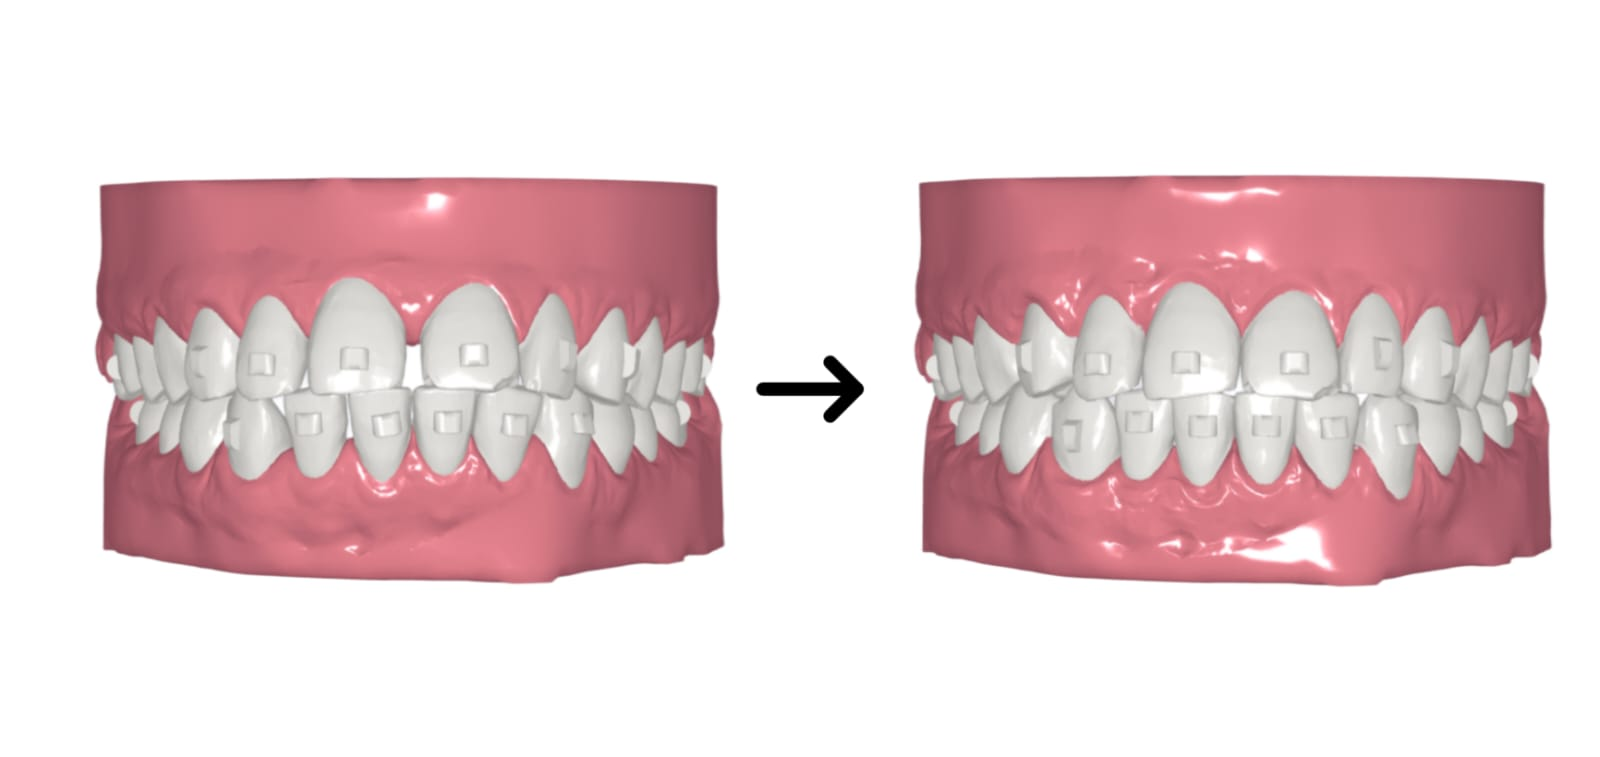
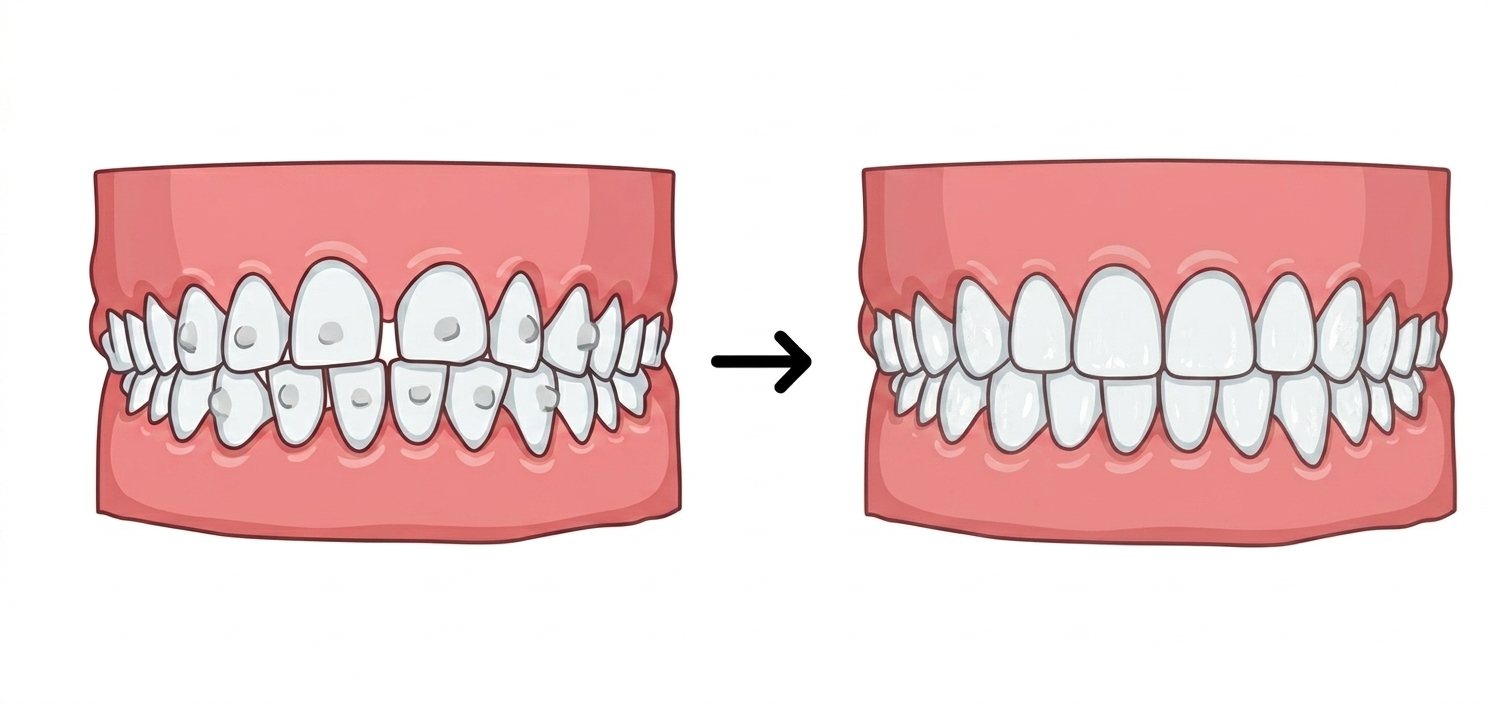
fix: move back button to top left and improve visibility on policy pages

diff --git a/app/refund-policy/page.tsx b/app/refund-policy/page.tsx
@@ -21,12 +21,12 @@ export const metadata: Metadata = {
 export default function RefundPolicyPage() {
   return (
     <div style={{ minHeight: "100vh", background: "#faf7f2", fontFamily: "Arial, sans-serif", display: "flex", flexDirection: "column" }}>
-      <div style={{ maxWidth: "820px", margin: "0 auto", padding: "40px 20px", width: "100%", flex: 1, position: "relative" }}>
+      <div style={{ maxWidth: "820px", margin: "0 auto", padding: "40px 20px", width: "100%", flex: 1 }}>
 
         {/* Back Button */}
         <BackButton />
 
-        <div style={{ maxWidth: "820px", padding: "0 0 80px" }}>
+        <div style={{ padding: "0 0 80px" }}>
 
         {/* Header */}
         <div style={{ textAlign: "center", borderBottom: "2px solid #1B2A4A", paddingBottom: "24px", marginBottom: "36px" }}>

diff --git a/app/privacy-policy/page.tsx b/app/privacy-policy/page.tsx
@@ -27,12 +27,12 @@ export default function PrivacyPolicyPage() {
 
   return (
     <div style={{ minHeight: "100vh", background: "#faf7f2", fontFamily: "Arial, sans-serif", display: "flex", flexDirection: "column" }}>
-      <div style={{ maxWidth: "820px", margin: "0 auto", padding: "40px 20px", width: "100%", flex: 1, position: "relative" }}>
+      <div style={{ maxWidth: "820px", margin: "0 auto", padding: "40px 20px", width: "100%", flex: 1 }}>
 
         {/* Back Button */}
         <BackButton />
 
-        <div style={{ maxWidth: "820px", padding: "0 0 80px" }}>
+        <div style={{ padding: "0 0 80px" }}>
 
         {/* Header */}
         <div style={{ textAlign: "center", borderBottom: "2px solid #1B2A4A", paddingBottom: "24px", marginBottom: "36px" }}>

diff --git a/app/terms/page.tsx b/app/terms/page.tsx
@@ -27,12 +27,12 @@ export default function TermsPage() {
 
   return (
     <div style={{ minHeight: "100vh", background: "#faf7f2", fontFamily: "Arial, sans-serif", display: "flex", flexDirection: "column" }}>
-      <div style={{ maxWidth: "820px", margin: "0 auto", padding: "40px 20px", width: "100%", flex: 1, position: "relative" }}>
+      <div style={{ maxWidth: "820px", margin: "0 auto", padding: "40px 20px", width: "100%", flex: 1 }}>
 
         {/* Back Button */}
         <BackButton />
 
-        <div style={{ maxWidth: "820px", padding: "0 0 80px" }}>
+        <div style={{ padding: "0 0 80px" }}>
 
         {/* Header */}
         <div style={{ textAlign: "center", borderBottom: "2px solid #1B2A4A", paddingBottom: "24px", marginBottom: "36px" }}>

diff --git a/components/BackButton.tsx b/components/BackButton.tsx
@@ -3,9 +3,7 @@ export default function BackButton() {
     <>
       <style>{`
         .back-btn {
-          position: absolute;
-          top: 20px;
-          right: 20px;
+          display: inline-block;
           padding: 8px 16px;
           border-radius: 8px;
           border: 1px solid #b8905a;
@@ -17,6 +15,7 @@ export default function BackButton() {
           cursor: pointer;
           letter-spacing: 0.3px;
           transition: all 0.2s ease;
+          margin-bottom: 20px;
         }
         .back-btn:hover {
           background: #b8905a;

diff --git a/lib/db.ts b/lib/db.ts
@@ -1,0 +1,20 @@
+import mongoose from "mongoose"
+
+const MONGODB_URI = process.env.MONGODB_URI!
+
+if (!MONGODB_URI) {
+  throw new Error("Please define MONGODB_URI")
+}
+
+let cached = (global as any).mongoose || { conn: null, promise: null }
+
+export async function connectDB() {
+  if (cached.conn) return cached.conn
+
+  if (!cached.promise) {
+    cached.promise = mongoose.connect(MONGODB_URI).then((mongoose) => mongoose)
+  }
+
+  cached.conn = await cached.promise
+  return cached.conn
+}

diff --git a/models/Appointment.ts b/models/Appointment.ts
@@ -1,0 +1,17 @@
+import mongoose from "mongoose"
+
+const AppointmentSchema = new mongoose.Schema(
+  {
+    name: String,
+    phone: String,
+    age: String,
+    sex: String,
+    address: String,
+    date: String,
+    time: String,
+  },
+  { timestamps: true }
+)
+
+export default mongoose.models.Appointment ||
+  mongoose.model("Appointment", AppointmentSchema)
